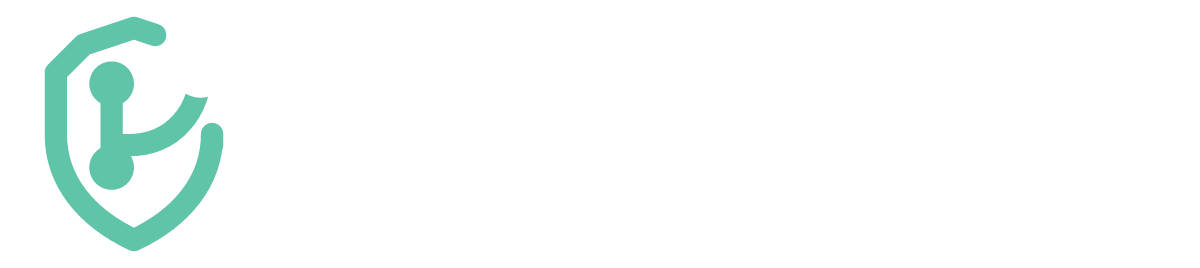
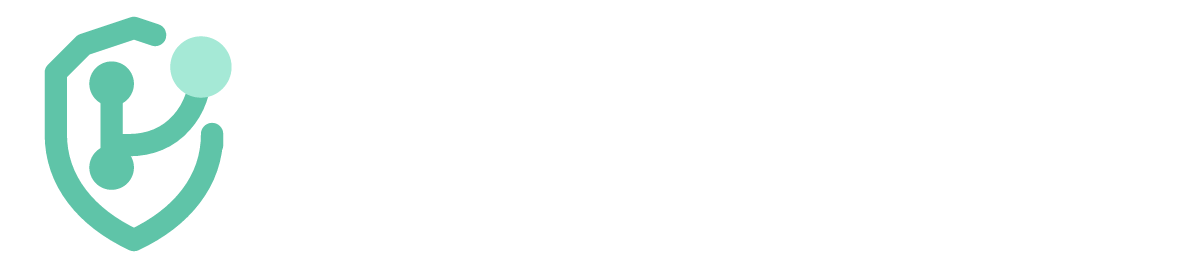
feat: use #A5E9D6 for the kept-commit dot on dark backgrounds
The white dot read like a notification badge on dark tab strips and the
sidebar. Dark variants only: favicon.svg dark scheme, on-dark marks and
lockup, apple-touch-icon, and the sidebar icon. Light variants and
favicon.ico are unchanged.

Changed region(s): [[0.1233, 0.1194, 0.2158, 0.3582]]

diff --git a/gitwarden/templates/base.html b/gitwarden/templates/base.html
@@ -19,7 +19,7 @@ button,.btn{display:inline-flex;align-items:center;justify-content:center;gap:8p
 </head>
 <body><div class="layout">
 <nav class="sidebar" aria-label="{{ t('common.main_nav') }}">
-<div class="brand"><svg width="28" height="28" fill="none" stroke="#5FC4A8" stroke-linecap="round" stroke-linejoin="round" stroke-width="2" aria-hidden="true" viewBox="0 0 24 24"><path d="M13.9 3.13 12 2.5 7.5 4 5 6.5V12c0 4.25 2.75 7.5 7 9.5 4.25-2 7-5.25 7-9.5v1"/><path d="M10 7.5V15m8-9c0 4-2.5 7-6.5 7H10"/><circle cx="10" cy="7.5" r="2" fill="#5FC4A8" stroke="none"/><circle cx="10" cy="15" r="2" fill="#5FC4A8" stroke="none"/><circle cx="18" cy="6" r="2.75" fill="#FFF" stroke="none"/></svg>GitWarden</div>
+<div class="brand"><svg width="28" height="28" fill="none" stroke="#5FC4A8" stroke-linecap="round" stroke-linejoin="round" stroke-width="2" aria-hidden="true" viewBox="0 0 24 24"><path d="M13.9 3.13 12 2.5 7.5 4 5 6.5V12c0 4.25 2.75 7.5 7 9.5 4.25-2 7-5.25 7-9.5v1"/><path d="M10 7.5V15m8-9c0 4-2.5 7-6.5 7H10"/><circle cx="10" cy="7.5" r="2" fill="#5FC4A8" stroke="none"/><circle cx="10" cy="15" r="2" fill="#5FC4A8" stroke="none"/><circle cx="18" cy="6" r="2.75" fill="#A5E9D6" stroke="none"/></svg>GitWarden</div>
 {% if request.cookies.get('gw_session') in request.app.state.sessions %}
 <div class="nav">
 {% for path,key in [('/', 'overview'),('/tasks','tasks'),('/logs','logs'),('/platforms','platforms'),('/creds','credentials')] %}
